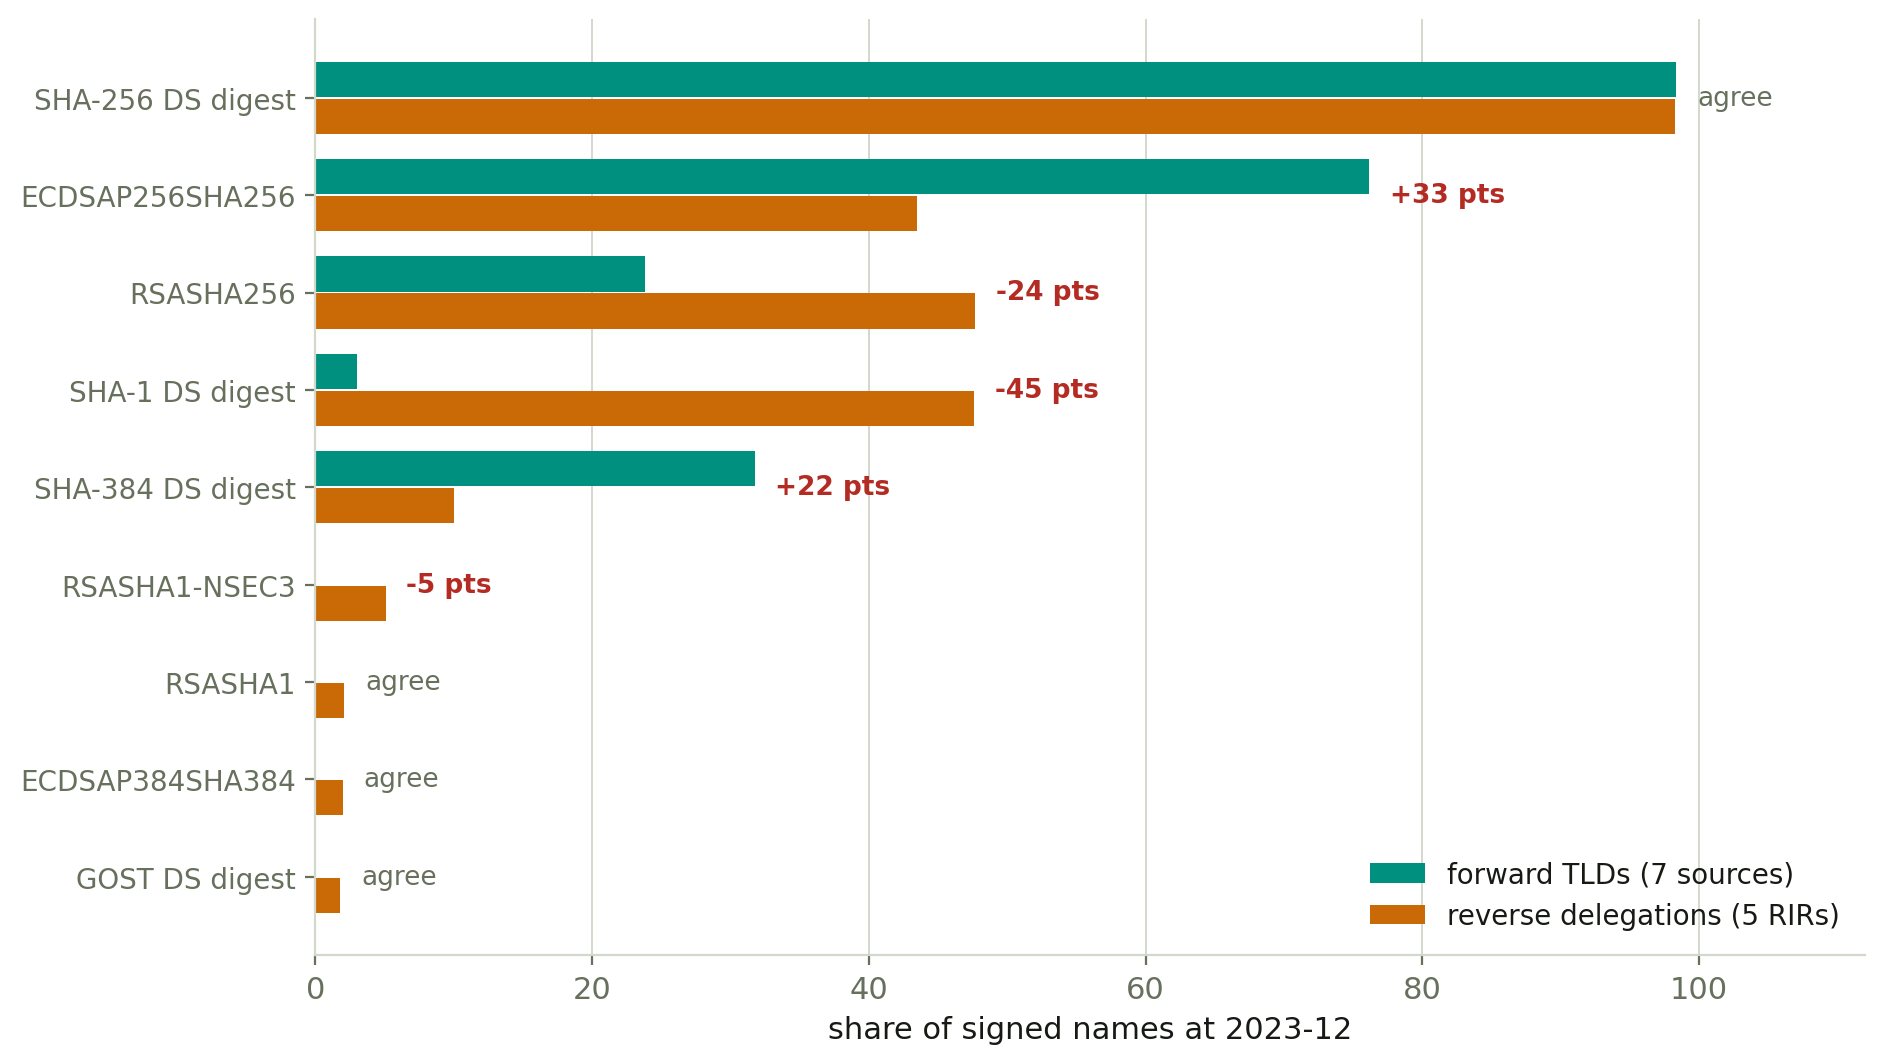
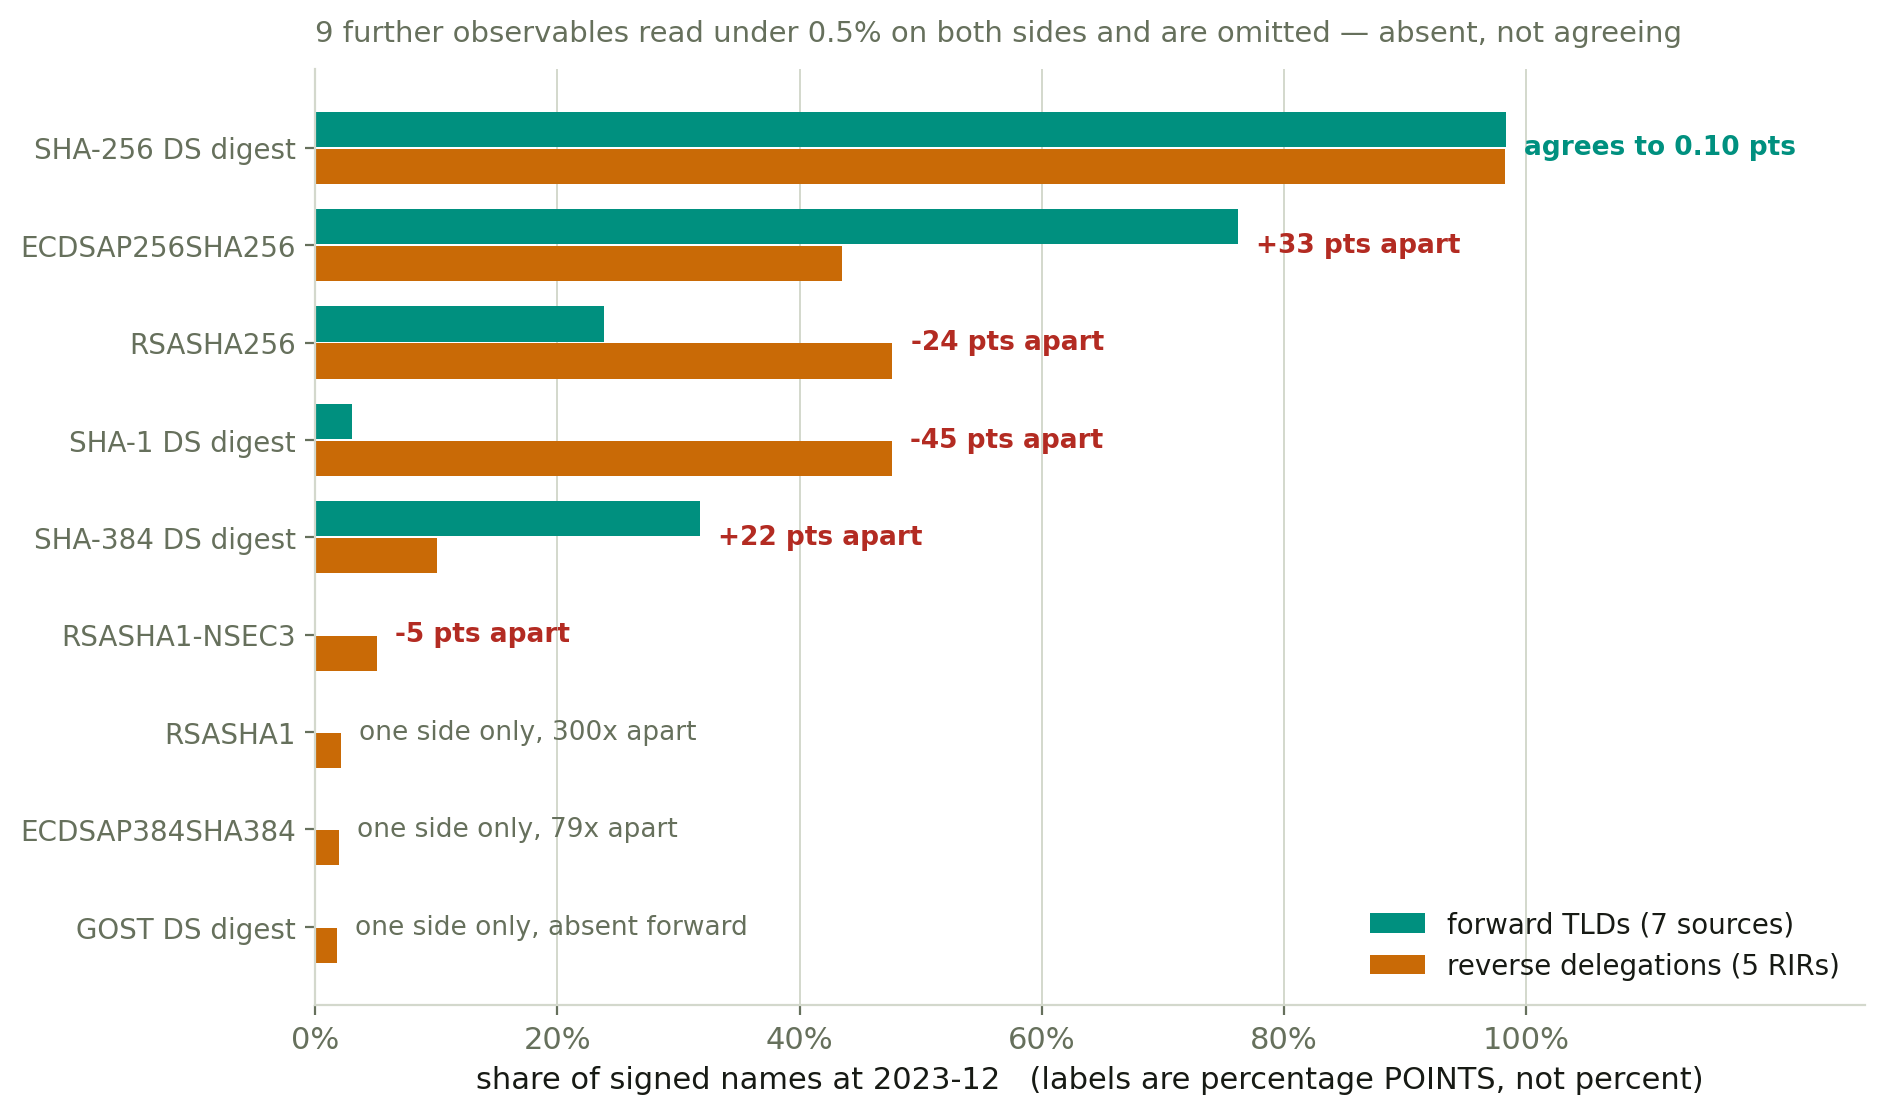
fix: "14 of 20 agree" counted absent-from-both as agreement
Asked whether the chart's "pts" labels were percentages -- they are percentage
points, the subtraction of two shares -- and checking that exposed a headline
that was nearly meaningless.

An absolute 5-point threshold on values that mostly sit near zero counts "both
absent" as corroboration. Nine pairs read 0.00% on both sides. RSASHA1 reads
0.01% forward against 2.10% reverse: 2.1 points apart, and 300x apart. Three
more were 14x to 79x apart while passing the points test.

A pair now counts as agreeing only when one side is materially present (>=0.5%),
the gap is under 5 points, AND the two are within a factor of 3. The verdicts:

    agree                                     1
    disagree by more than 5 points            6
    present on one side only                  3
    under 0.5% on both, absent not agreeing  10

So the claim is 1 of 20, not 14. The surviving agreement is still worth having --
SHA-256 DS digest reads 98.34% forward and 98.24% reverse, 0.10 points apart,
from corpora sharing no infrastructure, operators or method -- but it is one
observable and the deck now says so.

The chart also had no unit on its x-axis, which is what prompted the question.
Ticks now carry %, the axis says the labels are percentage points and not
percent, each bar is labelled by its verdict rather than a bare "agree", and the
ten absent observables are omitted with a note saying why rather than filling
half the chart with bars of nothing.
[…]

diff --git a/src/openintel_rfc/timeline_analysis.py b/src/openintel_rfc/timeline_analysis.py
@@ -24,6 +24,7 @@ import pandas as pd
 from .utils import PipelineError, get_logger
 
 __all__ = [
+    "MATERIAL_PCT",
     "POOLED_SOURCE",
     "STAGE_NAMES",
     "cross_reference",
@@ -40,6 +41,14 @@ LOGGER = get_logger(__name__)
 #: Source name for rows extracted across every source of a day at once. Their
 #: distinct-domain counts are exact where per-source counts cannot be summed.
 POOLED_SOURCE = "_pooled"
+
+#: A pair of shares only counts as agreement when at least one side is materially
+#: present, the absolute gap is small, AND the two are within a factor of each
+#: other. Two values of 0.00% are not corroboration, and 0.01% against 2.10% is
+#: 2.1 points apart while being 300x apart.
+MATERIAL_PCT = 0.5
+POINT_TOLERANCE = 5.0
+RATIO_TOLERANCE = 3.0
 
 
 def load_config(path: Path | str) -> dict[str, Any]:
@@ -633,14 +642,48 @@ def cross_reference(
     # two corpora contradicting each other.
     comparable = [c for c in result["comparisons"]
                   if c["difference_pct_points"] is not None]
-    agreeing = [c for c in comparable if abs(c["difference_pct_points"]) <= 5]
+
+    # An absolute threshold alone is not agreement. Most of these values sit near
+    # zero, where "both absent" passes a 5-point test and reads as corroboration:
+    # RSASHA1 at 0.01% against 2.10% is 2.1 points apart and 300x apart, and
+    # nine pairs were 0.00% on both sides. So a pair only counts as agreeing when
+    # at least one side is materially present AND the two are within a factor of
+    # each other as well as within the point threshold.
+    for c in comparable:
+        f, r = c["forward_share_pct"], c["reverse_share_pct"]
+        hi, lo = max(f, r), min(f, r)
+        c["ratio"] = (hi / lo) if lo > 0 else None
+        if hi < MATERIAL_PCT:
+            c["verdict"] = "absent from both"
+        elif abs(c["difference_pct_points"]) > POINT_TOLERANCE:
+            c["verdict"] = "disagree"
+        elif c["ratio"] is None or c["ratio"] >= RATIO_TOLERANCE:
+            c["verdict"] = "present on one side only"
+        else:
+            c["verdict"] = "agree"
+
+    counts: dict[str, int] = {}
+    for c in comparable:
+        counts[c["verdict"]] = counts.get(c["verdict"], 0) + 1
+    result["verdict_counts"] = counts
+    agreeing = [c for c in comparable if c["verdict"] == "agree"]
     if comparable:
         result["notes"].append(
-            f"{len(agreeing)} of {len(comparable)} observables that both corpora "
-            f"can answer agree within 5 percentage points at {last}, across two "
-            "corpora that share no infrastructure, operator population or "
-            "collection method."
+            f"Of {len(comparable)} observables both corpora can answer at {last}: "
+            f"{counts.get('agree', 0)} agree, "
+            f"{counts.get('disagree', 0)} disagree by more than "
+            f"{POINT_TOLERANCE:g} points, "
+            f"{counts.get('present on one side only', 0)} are present on one side "
+            f"only, and {counts.get('absent from both', 0)} are below "
+            f"{MATERIAL_PCT:g}% on both sides — absent, not corroborating."
         )
+        for c in agreeing:
+            result["notes"].append(
+                f"Agreement: {c['label']} reads {c['forward_share_pct']:.2f}% "
+                f"forward and {c['reverse_share_pct']:.2f}% reverse, "
+                f"{abs(c['difference_pct_points']):.2f} points apart, across "
+                "corpora sharing no infrastructure, operators or method."
+            )
     skipped = len(result["comparisons"]) - len(comparable)
     if skipped:
         result["notes"].append(

diff --git a/reporting/make_split_charts.py b/reporting/make_split_charts.py
@@ -47,10 +47,17 @@ def save(fig, name):
 # --------------------------------------------------------------------------- #
 x = split["cross_reference"]
 month = x["comparison_month"]
-pairs = [c for c in x["comparisons"] if c["difference_pct_points"] is not None
-         and max(c["forward_share_pct"], c["reverse_share_pct"]) >= 1.0
+# Only observables materially present on at least one side. The ten that read
+# 0.00% on both would otherwise fill half the chart with bars of nothing, each
+# labelled "agree" -- which is how the headline came to say 14 of 20 agreed.
+pairs = [c for c in x["comparisons"]
+         if c["difference_pct_points"] is not None
+         and c["verdict"] != "absent from both"
          and "still publish" not in c["label"]]
 pairs.sort(key=lambda c: -max(c["forward_share_pct"], c["reverse_share_pct"]))
+absent = sum(1 for c in x["comparisons"]
+             if c.get("verdict") == "absent from both"
+             and "still publish" not in c["label"])
 
 fig, ax = plt.subplots(figsize=(10, 0.52 * len(pairs) + 1.4))
 y = np.arange(len(pairs))
@@ -58,18 +65,29 @@ ax.barh(y - 0.19, [c["forward_share_pct"] for c in pairs], height=0.36,
         color=TEAL, label=f"forward TLDs ({len(FORWARD)} sources)")
 ax.barh(y + 0.19, [c["reverse_share_pct"] for c in pairs], height=0.36,
         color=AMBER, label=f"reverse delegations ({len(REVERSE)} RIRs)")
+LABEL = {"agree": ("agrees to {gap:.2f} pts", TEAL),
+         "disagree": ("{gap:+.0f} pts apart", BRICK),
+         "present on one side only": ("one side only, {ratio}", MUTED)}
 for i, c in enumerate(pairs):
     hi = max(c["forward_share_pct"], c["reverse_share_pct"])
     gap = c["difference_pct_points"]
-    ax.text(hi + 1.5, i, f"{gap:+.0f} pts" if abs(gap) >= 5 else "agree",
-            va="center", fontsize=9.5,
-            color=BRICK if abs(gap) >= 5 else MUTED,
-            fontweight="bold" if abs(gap) >= 5 else "normal")
+    ratio = (f"{c['ratio']:.0f}x apart" if c.get("ratio") else "absent forward")
+    tmpl, colour = LABEL[c["verdict"]]
+    ax.text(hi + 1.5, i, tmpl.format(gap=abs(gap) if c["verdict"] == "agree" else gap,
+                                     ratio=ratio),
+            va="center", fontsize=9.5, color=colour,
+            fontweight="bold" if c["verdict"] != "present on one side only" else "normal")
 ax.set_yticks(y)
 ax.set_yticklabels([c["label"] for c in pairs], fontsize=10)
 ax.invert_yaxis()
-ax.set_xlim(0, 112)
-ax.set_xlabel(f"share of signed names at {month}")
+ax.set_xlim(0, 128)
+ax.set_xticks([0, 20, 40, 60, 80, 100])
+ax.set_xticklabels([f"{v}%" for v in (0, 20, 40, 60, 80, 100)])
+ax.set_xlabel(f"share of signed names at {month}   (labels are percentage POINTS, "
+              f"not percent)")
+ax.set_title(f"{absent} further observables read under 0.5% on both sides and are "
+             f"omitted — absent, not agreeing",
+             fontsize=10.5, color=MUTED, loc="left", pad=10)
 ax.legend(frameon=False, loc="lower right", fontsize=10)
 ax.grid(axis="x", color=RULE, lw=0.7)
 ax.set_axisbelow(True)

diff --git a/reporting/make_framework_deck.py b/reporting/make_framework_deck.py
@@ -314,12 +314,14 @@ s, top = new("Two corpora that share nothing, compared at one date",
              "2023-12, the last month both cover.",
              eyebrow="cross-reference")
 picture(s, "forward_vs_reverse", top, max_h=Inches(3.8))
-textbox(s, M, H - Inches(1.45), W - 2 * M, Inches(1.1),
-        "14 of 20 comparable observables agree within 5 percentage points — "
-        "SHA-256 DS digest reads 98.34% and 98.24%, a tenth of a point apart, "
-        "from corpora with no shared infrastructure, operators or method. Where "
-        "they disagree the direction is consistent: forward zones have "
-        "modernised and reverse delegations have not.", size=14)
+textbox(s, M, H - Inches(1.6), W - 2 * M, Inches(1.25),
+        "Of 20 observables both corpora can answer: 1 agrees, 6 disagree by more "
+        "than 5 points, 3 are present on one side only, and 10 read under 0.5% on "
+        "both — absent, not corroborating. The one agreement is worth having: "
+        "SHA-256 DS digest reads 98.34% and 98.24%, a tenth of a point apart, from "
+        "corpora sharing no infrastructure, operators or method. Every "
+        "disagreement points the same way: forward zones have modernised and "
+        "reverse delegations have not.", size=13.5)
 
 # =========================================================================== #
 # 5d. Why they are never pooled

diff --git a/reporting/verify_deck.py b/reporting/verify_deck.py
@@ -137,9 +137,14 @@ if SPLIT.exists():
     check("comparison month is where both corpora overlap",
           says(x["comparison_month"]), x["comparison_month"])
     comparable = [c for c in x["comparisons"] if c["difference_pct_points"] is not None]
-    agree = [c for c in comparable if abs(c["difference_pct_points"]) <= 5]
-    check("agreement count", says(f"{len(agree)} of {len(comparable)}"),
-          f"expected {len(agree)} of {len(comparable)}")
+    counts = x["verdict_counts"]
+    check("agreement count uses the corrected verdicts",
+          says(f"Of {len(comparable)} observables both corpora can answer"),
+          f"expected a breakdown over {len(comparable)}")
+    for verdict, n in counts.items():
+        check(f"count for {verdict!r}", says(str(n)), f"expected {n}")
+    check("the inflated 14-of-20 claim is gone", not says("14 of 20"),
+          "an absolute threshold counted 'absent from both' as agreement")
     d2 = next(c for c in comparable if c["label"] == "SHA-256 DS digest")
     check("SHA-256 forward", says(f"{d2['forward_share_pct']:.2f}%"),
           f"{d2['forward_share_pct']:.2f}%")

diff --git a/docs/full_run_findings.md b/docs/full_run_findings.md
@@ -135,9 +135,27 @@ Separated: **forward 24/30 observables (2016-06 → 2023-12), reverse 17/30
 
 ## Where they agree, and where they do not
 
-At **2023-12**, the last month both cover — **14 of 20 comparable observables
-agree within 5 percentage points**, across two corpora sharing no
-infrastructure, operator population or collection method.
+At **2023-12**, the last month both cover. The first version of this said
+*"14 of 20 agree within 5 percentage points"*, which was nearly meaningless: an
+absolute threshold on values that mostly sit near zero counts **"absent from
+both" as agreement**. RSASHA1 reads 0.01% forward against 2.10% reverse — 2.1
+points apart and **300× apart** — and nine pairs were 0.00% on both sides.
+
+A pair now counts as agreeing only when one side is materially present (≥0.5%),
+the gap is under 5 points, **and** the two are within a factor of 3. On that
+measure:
+
+| verdict | n |
+| --- | --- |
+| **agree** | **1** |
+| disagree by more than 5 points | 6 |
+| present on one side only | 3 |
+| under 0.5% on both — absent, not corroborating | 10 |
+
+The one agreement is still worth having: **SHA-256 DS digest reads 98.34%
+forward and 98.24% reverse, 0.10 points apart**, from corpora sharing no
+infrastructure, operator population or collection method. But it is one
+observable, not fourteen.
 
     SHA-256 DS digest    forward 98.34%   reverse 98.24%    +0.1   agreement to a tenth
     ECDSA P-256          forward 76.18%   reverse 43.47%   +32.7
